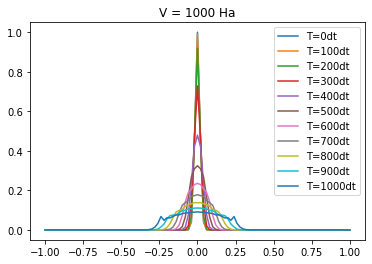
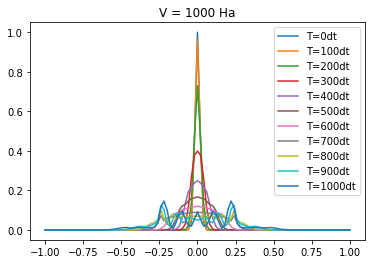
Timing programs now propagate to the same final time regardless of dt. Added plots produced by all combinations of paramaters.

Changed region(s): [[0.2957, 0.1212, 0.7688, 0.8788]]

diff --git a/timed_plots/timing_5_point.py b/timed_plots/timing_5_point.py
@@ -7,10 +7,13 @@ Created on Wed Nov 10 22:44:20 2021
 
 import timeit
 
+N = int(input('Iterations: '))
+
 setup_code = '''
 import numpy as np
 import matplotlib.pyplot as plt
 
+iteration = 1
 hbar = 1
 m = 1
 L = 1                    # Atomic units for each
@@ -19,10 +22,10 @@ V0 = 1000
 dx = float(input('Enter spatial grid spacing: '))
 dt = float(input('Enter time step: '))
 x = np.arange(-L, L+dx, dx)                                                    # Discretising domain
-dx = x[1] - x[0]                                                               # Defining grid spacing
 psi_left = 0 + 0j                                                              # Chosen to approximate psi asymptote
 psi_right = 0 + 0j
 V = np.zeros(len(x))
+T = 0.002
 
 for i in range(0, len(x)):
     if x[i] < -L/4 or L/4 < x[i]:
@@ -36,7 +39,7 @@ def nsd(psi, dx):
     d2f = d2f.astype('complex64')
     for i in range(2, len(x)-2):
         d2f[i] = (-1/12 * psi[i-2]) + (4/3 * psi[i-1]) + (-2.5 * psi[i]) + (4/3 * psi[i+1]) + (-1/12 * psi[i+2])
-    d2f = d2f/(12 * dx**2)
+    d2f = d2f/(dx**2)
     return d2f
 
 def update(psi, dx, dt, D):
@@ -57,19 +60,21 @@ program = '''
 psi = initial_condition(x) + 0j*initial_condition(x)
 
 norms = []
-
+plt.figure(iteration)
 for ii in range(0, 11):
-    psi = time_propagate(ii*100*dt, dx, dt, D, psi) # propagate for 100 time steps, then stop and plot
+    psi = time_propagate(ii*(T/10), dx, dt, D, psi) # propagate for 100 time steps, then stop and plot
     # norms.append(np.linalg.norm(psi))
     plt.plot(x,np.abs(psi)**2, label ="T="+str(ii*100)+"dt") # plot probability
     # plt.figure(ii)
     # plt.plot(x, np.real(psi), label = r'Re($\Psi$)')
     # plt.plot(x, np.imag(psi), label = r'Im($\Psi$)')
     # plt.legend()
-    # plt.title(f'T = {ii*100*dt}')
+    # plt.title(f'T = {ii*(T/10)}')
 
 plt.legend()
 plt.title(f'V = {V0} Ha')
+
+iteration += 1
 '''
 
-print(f"Executed in {timeit.timeit(stmt= program, setup = setup_code, number=1)} seconds")
+print(f"Average execution: {timeit.timeit(stmt= program, setup = setup_code, number=N) / N} seconds")

diff --git a/timed_plots/timing_3_point.py b/timed_plots/timing_3_point.py
@@ -7,10 +7,13 @@ Created on Wed Nov 10 22:44:20 2021
 
 import timeit
 
+N = int(input('Iterations: '))
+
 setup_code = '''
 import numpy as np
 import matplotlib.pyplot as plt
 
+iteration = 1
 hbar = 1
 m = 1
 L = 1                    # Atomic units for each
@@ -19,10 +22,10 @@ V0 = 1000
 dx = float(input('Enter spatial grid spacing: '))
 dt = float(input('Enter time step: '))
 x = np.arange(-L, L+dx, dx)                                                    # Discretising domain
-dx = x[1] - x[0]                                                               # Defining grid spacing
 psi_left = 0 + 0j                                                              # Chosen to approximate psi asymptote
 psi_right = 0 + 0j
 V = np.zeros(len(x))
+T = 0.002
 
 for i in range(0, len(x)):
     if x[i] < -L/4 or L/4 < x[i]:
@@ -57,19 +60,22 @@ program = '''
 psi = initial_condition(x) + 0j*initial_condition(x)
 
 norms = []
-
+plt.figure(iteration)
 for ii in range(0, 11):
-    psi = time_propagate(ii*100*dt, dx, dt, D, psi) # propagate for 100 time steps, then stop and plot
+    psi = time_propagate(ii*(T/10), dx, dt, D, psi) # propagate for 100 time steps, then stop and plot
     # norms.append(np.linalg.norm(psi))
-    plt.plot(x,np.abs(psi)**2, label ="T="+str(ii*100)+"dt") # plot probability
+    prob = np.abs(psi)**2
+    plt.plot(x, prob, label ="T="+str(ii*100)+"dt") # plot probability
     # plt.figure(ii)
     # plt.plot(x, np.real(psi), label = r'Re($\Psi$)')
     # plt.plot(x, np.imag(psi), label = r'Im($\Psi$)')
     # plt.legend()
-    # plt.title(f'T = {ii*100*dt}')
+    # plt.title(f'T = {ii*(T/10)}')
 
 plt.legend()
 plt.title(f'V = {V0} Ha')
+
+iteration += 1
 '''
 
-print(f"Executed in {timeit.timeit(stmt= program, setup = setup_code, number=1)} seconds")
+print(f"Average execution: {timeit.timeit(stmt= program, setup = setup_code, number=N) / N} seconds")
